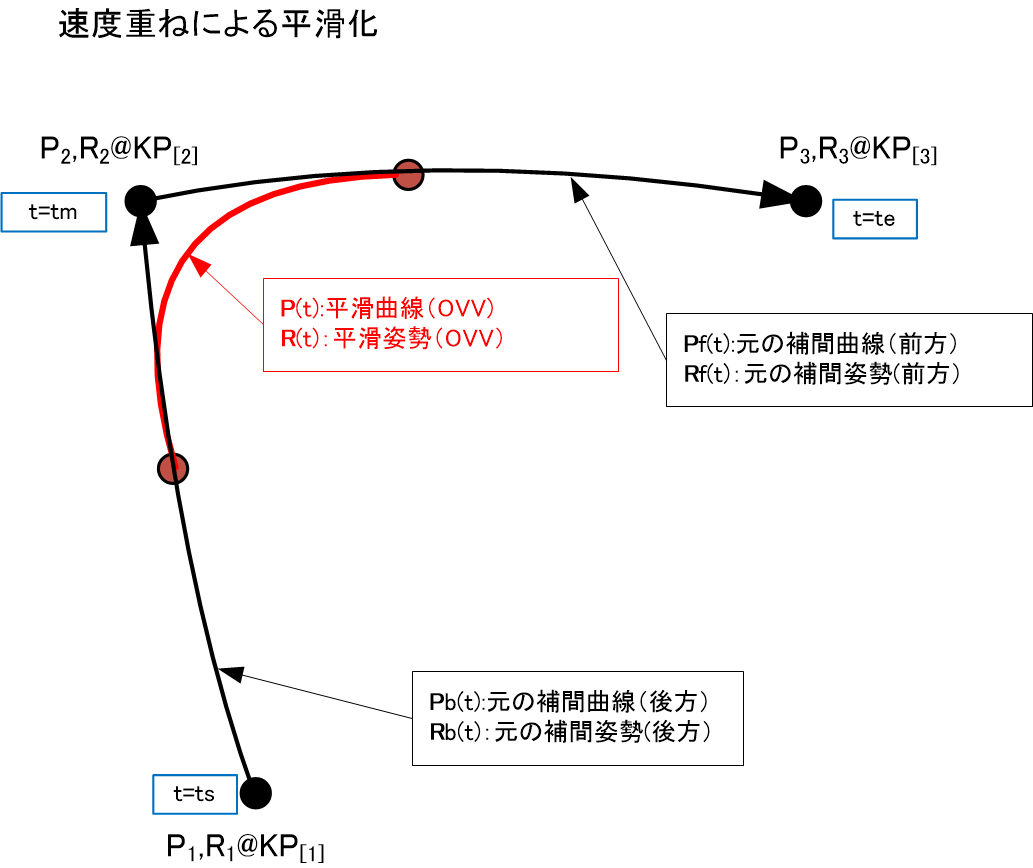
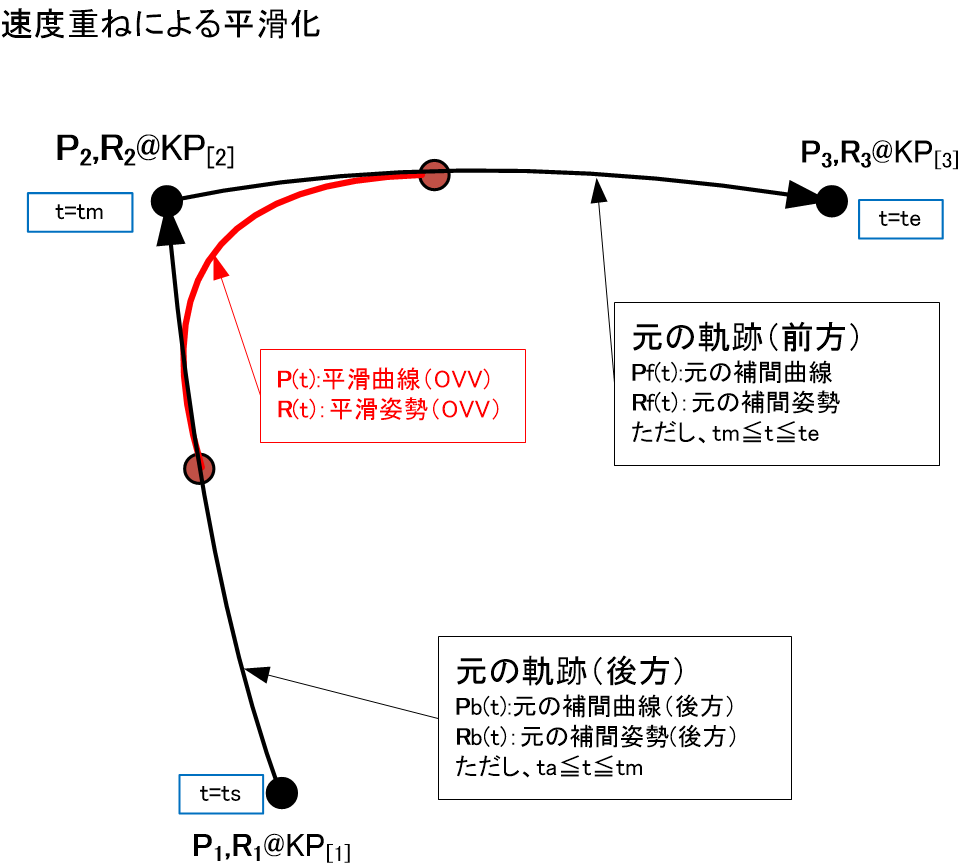
執筆終了ー知財関係未調査

diff --git a/src/posts/robotics/manip-algo2/manip-algo2.md b/src/posts/robotics/manip-algo2/manip-algo2.md
@@ -143,8 +143,8 @@ u \\ v \\ w
 \right)
 =　\left(
 \begin{array}{ccc}
-R\space cos(-\theta) \\
-R\space sin(-\theta)\\
+R~ cos(-\theta) \\
+R~ sin(-\theta)\\
 0
 \end{array}
 \right)
@@ -291,9 +291,9 @@ $$
 $$
 \begin{align*}
 
-&k_s(s)=sin((1.0-r(s)) \space \theta)/sin(\theta) \\
-&k_e(s)=sin(\theta\space r(s))/sin(\theta) \\
-&\bold{q}_{[m]}(s)=k_s(s)\space\bold{q}_{[m]} + k_e(s)\space\bold{q}_{[m+1]} \\
+&k_s(s)=sin((1.0-r(s)) ~ \theta)/sin(\theta) \\
+&k_e(s)=sin(\theta~ r(s))/sin(\theta) \\
+&\bold{q}_{[m]}(s)=k_s(s)~\bold{q}_{[m]} + k_e(s)~\bold{q}_{[m+1]} \\
 
 \end{align*}
 $$
@@ -301,9 +301,9 @@ $$
 $$ 
 \begin{align*}
 &\theta' = \pi-\theta\\
-&k_s(s)=sin((1.0-r(s)) \space \theta')/sin(\theta') \\
-&k_e(s)=sin(\theta' \space r(s))/sin(\theta') \\
-&\bold{q}_{[m]}(s)=k_s(s)\space\bold{q}_{[m]} - k_e(s)\space\bold{q}_{[m+1]} \\
+&k_s(s)=sin((1.0-r(s)) ~ \theta')/sin(\theta') \\
+&k_e(s)=sin(\theta' ~ r(s))/sin(\theta') \\
+&\bold{q}_{[m]}(s)=k_s(s)~\bold{q}_{[m]} - k_e(s)~\bold{q}_{[m+1]} \\
 
 \end{align*}
 $$
@@ -312,7 +312,7 @@ $$
 すなわち、$\bold{q}_0$から$\bold{q}_1$までの線形変化で案分率rのQuaternionはSlerp関数を使用して$\bold{q}$と計算される。
 $$
 \bold{q} =Slerp(r, \bold{q}_0,\bold{q}_{1} ) \\
-\space (0.0 \le r \le 1.0)
+~ (0.0 \le r \le 1.0)
 $$
 
 
@@ -324,7 +324,7 @@ $$
 
 ### 滑らかな位置/姿勢軌跡のあてはめ方式
 #### 位置軌跡のあてはめ
-一度前後の区間で指定された軌跡曲線を描いてみて、あとから滑らかに接続するように適当な曲線を当てはめる方法である。例えば下記のようにKP$_{[m]}$を区間境界とする場合、一度KP$_{[m]}$の前後の区間m-1と区間mで軌跡曲線を引き、KP$_{[m]}$から当該曲線上に沿って、適当な距離（$L_1$, $L_2$）にあるサブポイントKP$_{[m]1}$とKP$_{[m]2}$を考える。各ポイントでの位置を$\vec{Q}_1$,$\vec{Q}_2$、接線ベクトルを$\vec{V}_{q1}$,$\vec{V}_{q2}$として、これらを利用することにより3次スプライン補間式$\vec{F}_0(s) \space (s=0.0～1.0)$をサンプリングして、平滑曲線とする方法がある。
+一度前後の区間で指定された軌跡曲線を描いてみて、あとから滑らかに接続するように適当な曲線を当てはめる方法である。例えば下記のようにKP$_{[m]}$を区間境界とする場合、一度KP$_{[m]}$の前後の区間m-1と区間mで軌跡曲線を引き、KP$_{[m]}$から当該曲線上に沿って、適当な距離（$L_1$, $L_2$）にあるサブポイントKP$_{[m]1}$とKP$_{[m]2}$を考える。各ポイントでの位置を$\vec{Q}_1$, $\vec{Q}_2$、接線ベクトルを$\vec{V}_{q1}$, $\vec{V}_{q2}$として、これらを利用することにより3次スプライン補間式$\vec{F}_0(s) ~~ (s=0.0～1.0)$をサンプリングして、平滑曲線とする方法がある。
 
 ![](images/smooth.png)
 
@@ -383,17 +383,17 @@ $$
 $$
 このときパラメータtを0から1まで変化させながら、$\bold q$を漸次サンプルすれば、滑らかなQuaternion列が求まる。これを区間m-1の大円円弧のうち$\bold q_{[m-1]}～\bold q_{[m-1]1}$部分と区間mの大円円弧のうち$\bold q_{[m]2}～\bold q_{[m+1]}$部分とを合わせて滑らかな姿勢の軌跡とする。
 
-### 速度プロファイル重ね方式
+### 速度重ね方式
 
-これまで述べた平滑化とは別の発想で生まれた平滑化の手法である。平滑化したい対象KPの前後区間での元の速度（ベクトル）プロファイル例を下記の図の上側に示す。左半分は後方（時間をさかのぼる方向）の区間での軌跡上をツール先端が動く時の通常の速度ベクトルの時系列であり、台形制御となっている。また右半分は前方（時間が流れる方向）の区間の速度ベクトルの時系列であり、これも台形制御となっている。2つの境界にあたる対象のKP付近で滑らかな動きにしようとすれば前の台形と後ろの台形をずらして合成すればよい。それを下側で示す。この図では速度プロファイルを一部重ねたような速度制御となる。このような速度制御となるように元の前後の軌跡を補間することにより、滑らかな位置・姿勢の軌跡にするのが速度プロファイル重ね方式、略して速度重ね方式(OVV=OVerlapped Velocity)である。
+これまで述べた平滑化とは別の発想で生まれた平滑化の手法である。平滑化したい対象KPの前後区間での元の速度（ベクトル）プロファイル例を下記の図の上側に示す。左半分は後方（時間をさかのぼる方向）の区間での軌跡上をツール先端が動く時の通常の速度ベクトルの時系列であり、台形制御となっている。また右半分は前方（時間が流れる方向）の区間の速度ベクトルの時系列であり、これも台形制御となっている。2つの境界にあたる対象のKP付近で滑らかな動きにしようとすれば前の台形と後ろの台形をずらして合成すればよい。それを下側で示す。この図では速度プロファイルを一部重ねたような速度制御となる。このような速度制御となるように元の前後の軌跡を補間することにより、滑らかな位置/姿勢の軌跡にするのが速度プロファイル重ね方式、略して速度重ね方式(OVV=OVerlapped Velocity)である。
 
 ![](images/ovv.png)
 
-前方側の台形（右半分）をどのくらい後方（左方向）にずらすかの時間をoverlap時間$t_{ov}$と呼ぶ。これを大きくすれば速度を落とさず当該KP付近を短時間に通過できる。
+ここで前方側の台形（右半分）を後方（左方向）にずらす時間をoverlap時間$t_{ov}$とする。これを大きくすればなるべく速度を落とさず当該KP付近を$t_{ov}$分、短時間に通過できる。
 
 さて一般的に、下記の式のように速度$\vec {V}$の時間積分で位置$\vec{P}(t)$が算出できる。
 $$
-\vec{P}(t) =\int_{t_s}^{t_e} \vec{V}(t) dt　+\vec {P}_s
+\vec{P}(t) =\int_{ts}^{te} \vec{V}(t) dt　+\vec {P}_s
 $$
 
 この関係をうまく利用すれば元の軌跡曲線の位置・姿勢の時系列から速度重ねの状態を表す滑らかな時系列を算出できる。
@@ -405,35 +405,38 @@ $$
 \begin{align*}
 &(t_m-t_{ov}) \lt t \le t_m  のとき\\
 &\vec{P}(t)=\vec{P}_b(t) + \vec{P}_f(t+t_{ov})- \vec {P}_2 \\
-&\bold{R}(t)=\bold{R}_f(t+t_{ov})\space \bold{R}^{-1}_2\space \bold{R}_b(t) \\
+&\bold{R}(t)=\bold{R}_f(t+t_{ov})~ \bold{R}^{-1}_2~ \bold{R}_b(t) \\
 \end{align*}
 $$
 と簡単に表せる。なお、$t_m$は元の軌跡をたどったとき、KP$_{[2]}$(=$\vec{P}_2$, $\bold{R}_2$)に到達する時刻である。
 
-従って、次のような処理で平滑化のサンプルが得られる。元の軌跡をjでサンプルした前後の位置の時系列$\vec{P}_f[j], \vec{P}_b[j]$、また前後の姿勢の時系列$\bold{R}_f[j], \bold{R}_b[j]$がすでに用意されており、
-$$
-\begin{align*}
-& dt：時刻サンプル幅 \\
-& j_m：KP[2](\vec{P}_2, \bold{R}_2)に到達する\vec{P}_b[j]または\bold{R}_b[j]のインデックス \\
-& nj = round(\frac{t_{ov}}{dt}) ：overlap時間分のサンプル数\\
-\end{align*}
-$$
+従って、時系列サンプルデータがある場合は次のような簡単な処理で平滑化サンプルが得られる。元の軌跡をjでサンプルした前後の位置の時系列$\vec{P}_f[j], \vec{P}_b[j]$、また前後の姿勢の時系列$\bold{R}_f[j], \bold{R}_b[j]$がすでに用意されており、
+
+$$\begin{align*}
+& \Delta t：時刻サンプル幅 \\
+& j_m：KP[2]でのサンプル点\vec{P}_b[j]または\bold{R}_b[j]のインデックス \\
+& ~~~~~\iff  \vec{P}_b[j_m]=\vec{P}_2かつ \bold{R}_b[j_m]=\bold{R}_2　\\
+& nj = round(\frac{t_{ov}}{\Delta t}) ：overlap時間分のサンプル数\\
+\end{align*}$$
+
 とすれば、平滑部は
 $$
 \begin{align*}
 & (j_m-nj) \lt j \le j_m  のとき\\
 & \vec{P}[j]=\vec{P}_b[j] + \vec{P}_f[j+nj]- \vec {P}_2 \\
-& \bold{R}[j]=\bold{R}_f[j+nj]\space \bold{R}^{-1}_2 \space\bold{R}_b[j] \\
+& \bold{R}[j]=\bold{R}_f[j+nj]~ \bold{R}^{-1}_2 ~\bold{R}_b[j] \\
 \end{align*}
 $$
 
-と簡単に補間計算が可能である。
+と補間計算が可能である。直線、円弧、スプラインなどのCP制御の区間と区間の間で平滑化したい場合はこれらの方法が使える。またPTP制御（関節軸主体制御）の区間と区間の間の平滑化の時は$\vec{\Theta}$を$\vec{P}$の代わりに用いれば同じことが可能である。また区間の片方がCP制御もう片方がPTP制御のときはどちらかの制御軌跡に統一した後、本方式を適用することが可能である。
+
+ところで、本方式でも1か所の平滑化を施すために、計算の最初に前後2本分の軌跡データ（しかも時系列データ!）が必要であるが、結局その一部は後に不要となる。その分の計算負荷とメモリが負担となることを実装時には留意されたい。
 
 ## 4. 終わりに
 
-実用的な軌跡生成の方法、また境界付近での平滑化について解説した。
+実用的な軌跡生成の方法、また境界付近での平滑化について解説した。ロボットアームにプログラムを与えて動作指示をしたとき、内部でいかなる計算が行われ軌跡生成しているのか、その端緒を示すことができたと思う。実際の実装ではこれらの派生アルゴリズムを採用したり、高速化や安定化のための改善策を追加したり、例外処理を追加することが必要となる。
 
-次回は特異点と呼ばれるロボットアームの厄介な特殊姿勢とその回避方法について述べる。
+次回は特異点と呼ばれるロボットアームの厄介な特殊姿勢とその回避方法について解説する。
 
 
 ##  参考文献
